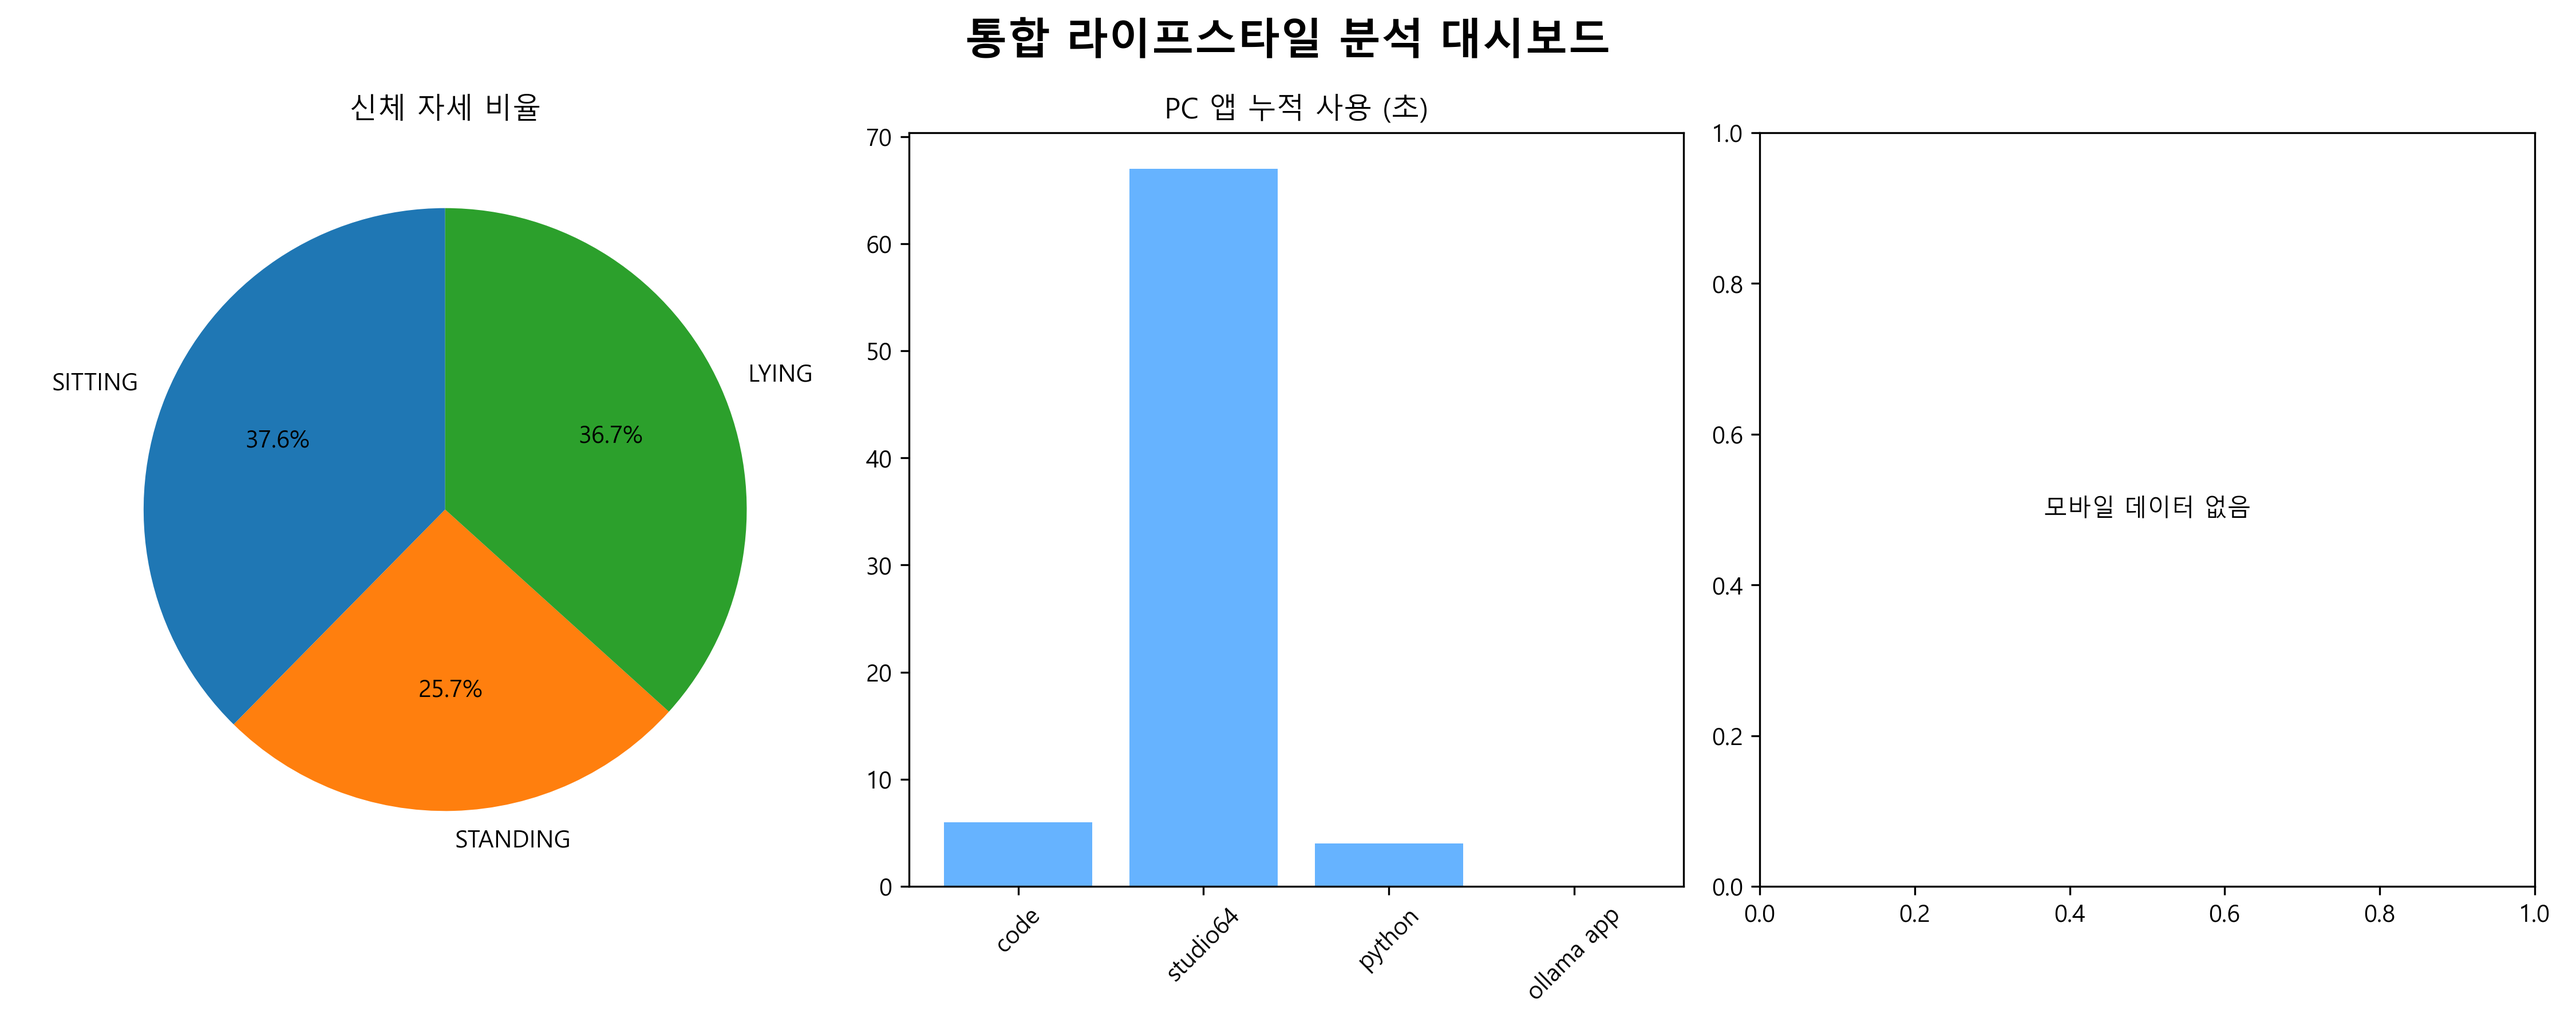
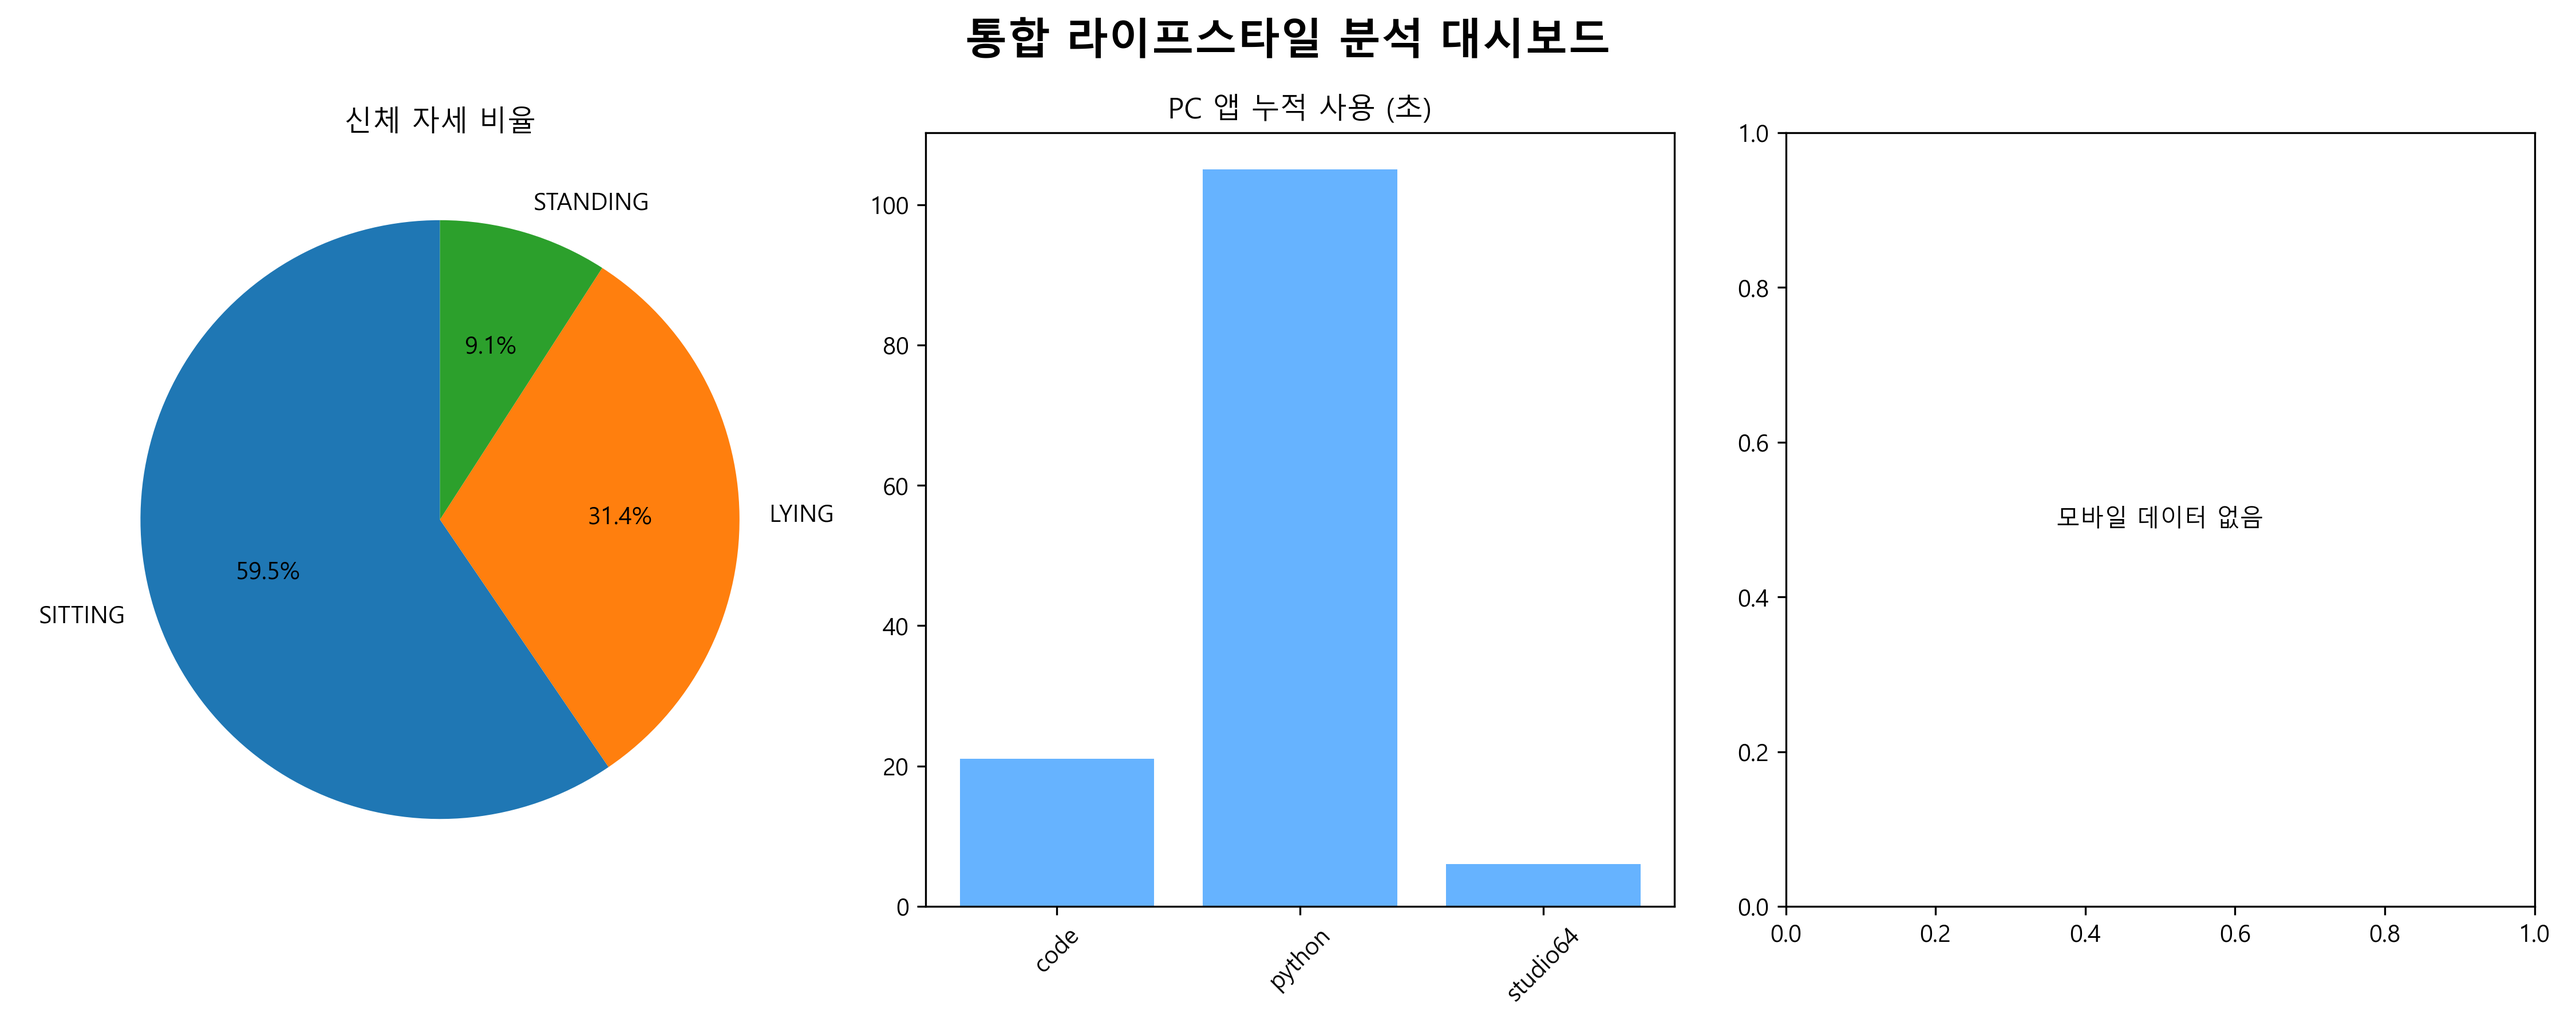
feat: enhance posture tracking and skeleton detection logic, improve landmark processing, and update pose model parameters

diff --git a/src/homecam_live.py b/src/homecam_live.py
@@ -6,6 +6,7 @@ import numpy as np
 import datetime
 from ultralytics import YOLO
 import mediapipe as mp
+from mediapipe.framework.formats import landmark_pb2
 import threading
 
 # --- 입력 소스 및 해상도 설정 ---
@@ -84,6 +85,7 @@ class TrackerManager:
             "start_time_str": datetime.datetime.now().strftime("%H:%M:%S"),
             "candidate_activity": raw_posture,
             "candidate_start_time": current_sec,
+            "candidate_streak": 1,
             "summary": {"SITTING": 0.0, "LYING": 0.0, "STANDING": 0.0, "UNKNOWN": 0.0},
             "transition_count": 0,
             "last_seen": current_sec,
@@ -96,12 +98,21 @@ class TrackerManager:
             self.trackers[master_id] = tracker
         tracker["last_seen"] = current_sec
 
-        if raw_posture != tracker["candidate_activity"]:
+        if raw_posture == "UNKNOWN":
+            tracker["candidate_streak"] = 0
+        elif raw_posture != tracker["candidate_activity"]:
             tracker["candidate_activity"] = raw_posture
             tracker["candidate_start_time"] = current_sec
+            tracker["candidate_streak"] = 1
+        else:
+            tracker["candidate_streak"] = tracker.get("candidate_streak", 0) + 1
 
         confirmed_posture = tracker["current_activity"]
-        if current_sec - tracker["candidate_start_time"] >= self.transition_threshold:
+        if (
+            raw_posture != "UNKNOWN"
+            and tracker["candidate_streak"] >= 2
+            and current_sec - tracker["candidate_start_time"] >= self.transition_threshold
+        ):
             confirmed_posture = tracker["candidate_activity"]
 
         if confirmed_posture != tracker["current_activity"] or current_zone != tracker["current_zone"]:
@@ -224,17 +235,18 @@ def has_skeleton_in_bbox(pose_landmarks, bbox, width, height):
         return False
 
     x1, y1, x2, y2 = bbox
+    visible_points = 0
     for joint_idx in [0, 2, 5, 11, 12, 23, 24]:
         landmark = pose_landmarks.landmark[joint_idx]
-        if landmark.visibility <= 0.3:
+        if landmark.visibility <= 0.2:
             continue
 
         px = int(landmark.x * width)
         py = int(landmark.y * height)
         if x1 <= px <= x2 and y1 <= py <= y2:
-            return True
+            visible_points += 1
 
-    return False
+    return visible_points >= 2
 
 
 def classify_posture(pose_landmarks, bbox):
@@ -260,8 +272,20 @@ def classify_posture(pose_landmarks, bbox):
     if is_box_lying or is_landmark_lying:
         return "LYING"
 
-    if abs(lm[25].y - lm[23].y) < abs(lm[23].y - lm[11].y) * 0.7:
-        return "SITTING"
+    shoulder_y = (lm[11].y + lm[12].y) / 2.0 if lm[11].visibility > 0.3 and lm[12].visibility > 0.3 else lm[11].y
+    hip_y = (lm[23].y + lm[24].y) / 2.0 if lm[23].visibility > 0.3 and lm[24].visibility > 0.3 else lm[23].y
+    torso_height = max(0.001, abs(shoulder_y - hip_y))
+
+    knee_positions = []
+    for knee_idx in (25, 26):
+        if lm[knee_idx].visibility > 0.3:
+            knee_positions.append(lm[knee_idx].y)
+
+    if len(knee_positions) == 2:
+        knee_span = abs(knee_positions[0] - knee_positions[1])
+        knee_to_hip = max(abs(knee_positions[0] - hip_y), abs(knee_positions[1] - hip_y))
+        if knee_span < torso_height * 0.35 and knee_to_hip < torso_height * 0.45:
+            return "SITTING"
 
     return "STANDING"
 
@@ -305,14 +329,69 @@ def save_logs(state_logs, transition_logs, summary_logs):
         json.dump(summary_logs, f, indent=4, ensure_ascii=False)
 
 
+def get_pose_landmarks_in_bbox(frame, bbox, pose_model, prev_landmarks=None):
+    x1, y1, x2, y2 = bbox
+    pad_x = max(20, int((x2 - x1) * 0.25))
+    pad_y = max(20, int((y2 - y1) * 0.35))
+    x1i = max(0, int(x1) - pad_x)
+    y1i = max(0, int(y1) - pad_y)
+    x2i = min(frame.shape[1], int(x2) + pad_x)
+    y2i = min(frame.shape[0], int(y2) + pad_y)
+
+    roi = frame[y1i:y2i, x1i:x2i]
+    if roi.size == 0:
+        return prev_landmarks
+
+    rgb_roi = cv2.cvtColor(roi, cv2.COLOR_BGR2RGB)
+    pose_result = pose_model.process(rgb_roi)
+    if not pose_result.pose_landmarks:
+        return prev_landmarks
+
+    roi_w = roi.shape[1]
+    roi_h = roi.shape[0]
+    landmark_list = landmark_pb2.NormalizedLandmarkList()
+    for idx, landmark in enumerate(pose_result.pose_landmarks.landmark):
+        new_landmark = landmark_pb2.NormalizedLandmark()
+        visibility = landmark.visibility if landmark.visibility is not None else 0.0
+
+        if visibility < 0.2:
+            if prev_landmarks is not None and idx < len(prev_landmarks.landmark):
+                prev_landmark = prev_landmarks.landmark[idx]
+                new_landmark.x = prev_landmark.x
+                new_landmark.y = prev_landmark.y
+            new_landmark.visibility = 0.0
+            landmark_list.landmark.append(new_landmark)
+            continue
+
+        new_x = (x1i + landmark.x * roi_w) / frame.shape[1]
+        new_y = (y1i + landmark.y * roi_h) / frame.shape[0]
+        if prev_landmarks is not None and idx < len(prev_landmarks.landmark):
+            prev_landmark = prev_landmarks.landmark[idx]
+            new_x = 0.7 * prev_landmark.x + 0.3 * new_x
+            new_y = 0.7 * prev_landmark.y + 0.3 * new_y
+
+        new_landmark.x = new_x
+        new_landmark.y = new_y
+        new_landmark.visibility = visibility
+        landmark_list.landmark.append(new_landmark)
+
+    return landmark_list
+
+
 def main():
     model = YOLO("models/yolov8n.pt")
-    mp_pose = mp.solutions.pose.Pose(model_complexity=1)
+    mp_pose = mp.solutions.pose.Pose(
+        static_image_mode=False,
+        model_complexity=1,
+        min_detection_confidence=0.6,
+        min_tracking_confidence=0.6
+    )
     mp_drawing = mp.solutions.drawing_utils
 
     zone_manager = ZoneManager()
     tracker_manager = TrackerManager(transition_threshold=1.0)
     id_mapping = {}
+    prev_pose_cache = {}
 
     cap = VideoCaptureThreading(video_path)
     if not cap.isOpened():
@@ -341,27 +420,35 @@ def main():
 
         frame = cv2.resize(frame, (TARGET_WIDTH, TARGET_HEIGHT))
         yolo_res = model.track(frame, persist=True, verbose=False, classes=0, conf=0.4, iou=0.3)[0]
-        pose_res = mp_pose.process(cv2.cvtColor(frame, cv2.COLOR_BGR2RGB))
         annotated = yolo_res.plot()
         current_sec = time.time() - start_time_real
-
-        if pose_res.pose_landmarks:
-            mp_drawing.draw_landmarks(annotated, pose_res.pose_landmarks, mp.solutions.pose.POSE_CONNECTIONS)
 
         if yolo_res.boxes.id is not None:
             boxes = yolo_res.boxes.xyxy.cpu().numpy()
             ids = yolo_res.boxes.id.cpu().numpy().astype(int)
             for (x1, y1, x2, y2), detection_id in zip(boxes, ids):
                 bbox = (x1, y1, x2, y2)
-                if not has_skeleton_in_bbox(pose_res.pose_landmarks, bbox, TARGET_WIDTH, TARGET_HEIGHT):
+                cache_key = int(detection_id)
+                prev_pose = prev_pose_cache.get(cache_key)
+                person_pose = get_pose_landmarks_in_bbox(frame, bbox, mp_pose, prev_pose)
+                if person_pose is None:
                     continue
+
+                prev_pose_cache[cache_key] = person_pose
+
+                if has_skeleton_in_bbox(person_pose, bbox, TARGET_WIDTH, TARGET_HEIGHT):
+                    mp_drawing.draw_landmarks(
+                        annotated,
+                        person_pose,
+                        mp.solutions.pose.POSE_CONNECTIONS,
+                    )
 
                 master_id = id_mapping.get(int(detection_id))
                 if master_id is None:
                     master_id = tracker_manager.assign_ids(int(detection_id), current_sec)
                     id_mapping[int(detection_id)] = master_id
 
-                raw_posture = classify_posture(pose_res.pose_landmarks, bbox)
+                raw_posture = classify_posture(person_pose, bbox)
                 feet_pos = (int((x1 + x2) / 2), int(y2))
                 current_zone = zone_manager.find_zone(feet_pos)
 
